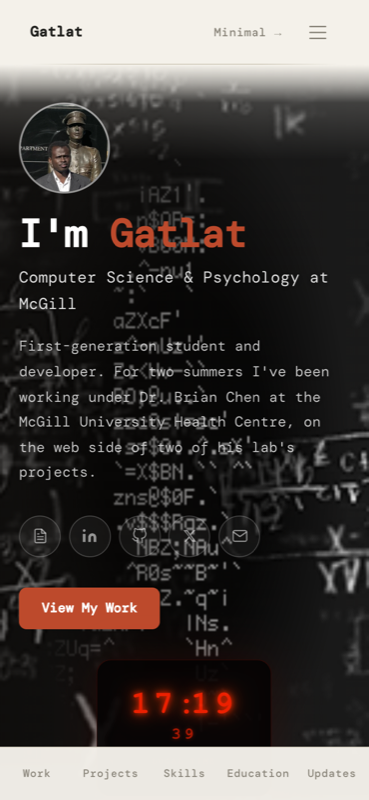
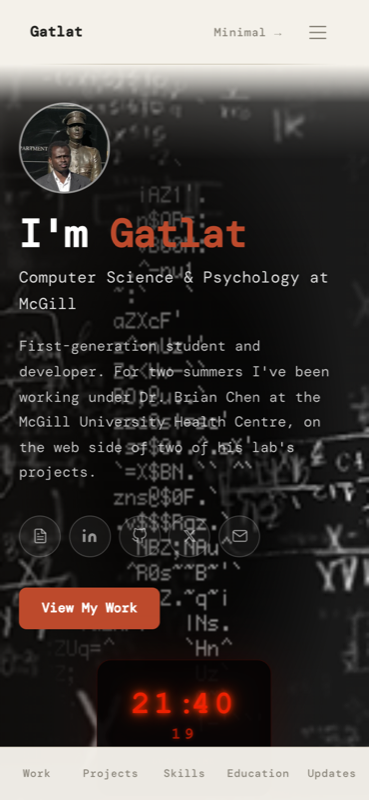
Add Grayson quote as a closing note before the footer

diff --git a/src/components/Quote.tsx b/src/components/Quote.tsx
@@ -1,0 +1,44 @@
+export default function Quote() {
+  return (
+    <section
+      className="section-top section-pad"
+      style={{ padding: '6rem 1.5rem' }}
+      aria-label="Quotation"
+    >
+      <figure style={{ maxWidth: '680px', margin: '0 auto', textAlign: 'center' }}>
+        <div style={{
+          width: '2rem',
+          height: '1px',
+          backgroundColor: 'var(--color-accent)',
+          opacity: 0.5,
+          margin: '0 auto 2rem',
+        }} />
+
+        <blockquote style={{
+          fontSize: 'clamp(1rem, 2.2vw, 1.2rem)',
+          lineHeight: 1.95,
+          color: 'var(--color-ink)',
+          letterSpacing: '-0.01em',
+          margin: 0,
+        }}>
+          “And what is more enthralling to the human mind than this splendid,
+          boundless, coloured mutability!—life in the making? How strange it is,
+          then, that we should be contented to take such small parts of it as we
+          can grasp, and to say, <span style={{ color: 'var(--color-accent)' }}>
+          ‘This is the true explanation.’</span>”
+        </blockquote>
+
+        <figcaption style={{
+          marginTop: '1.75rem',
+          fontSize: '0.78rem',
+          letterSpacing: '0.12em',
+          textTransform: 'uppercase',
+          color: 'var(--color-muted)',
+        }}>
+          David Grayson · <span style={{ textTransform: 'none', letterSpacing: '0.04em' }}>
+          Adventures in Contentment</span>
+        </figcaption>
+      </figure>
+    </section>
+  )
+}

diff --git a/src/App.tsx b/src/App.tsx
@@ -5,6 +5,7 @@ import Projects from './components/Projects'
 import Skills from './components/Skills'
 import Education from './components/Education'
 import Updates from './components/Updates'
+import Quote from './components/Quote'
 import Footer from './components/Footer'
 import MinimalView from './components/MinimalView'
 import { ModeProvider, useMode } from './context/ModeContext'
@@ -24,6 +25,7 @@ function AppContent() {
           <Skills />
           <Education />
           <Updates />
+          <Quote />
         </main>
       )}
       <Footer />
